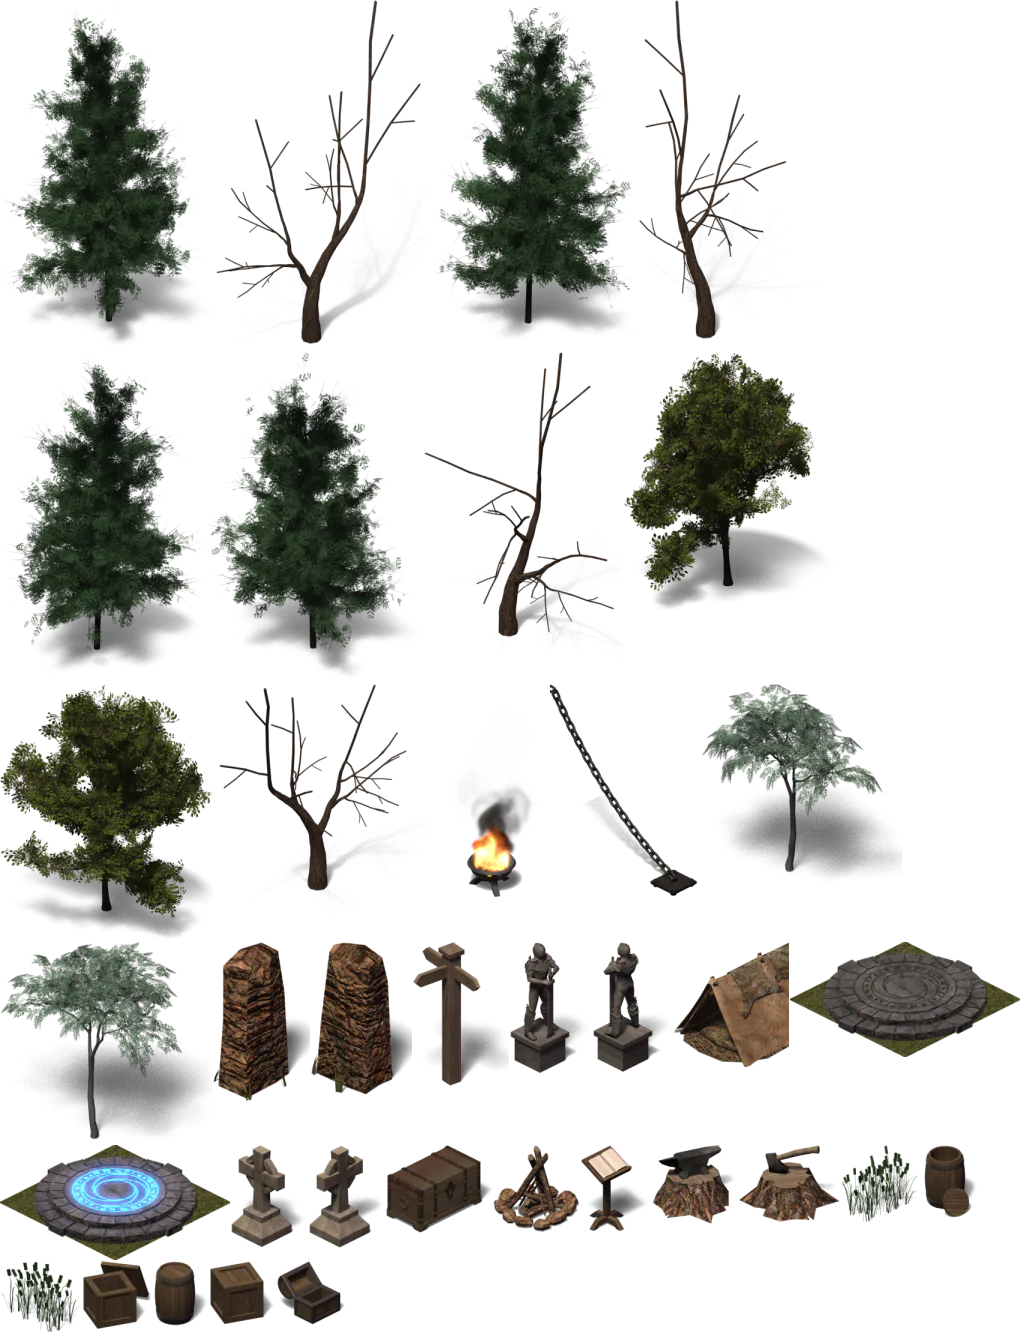
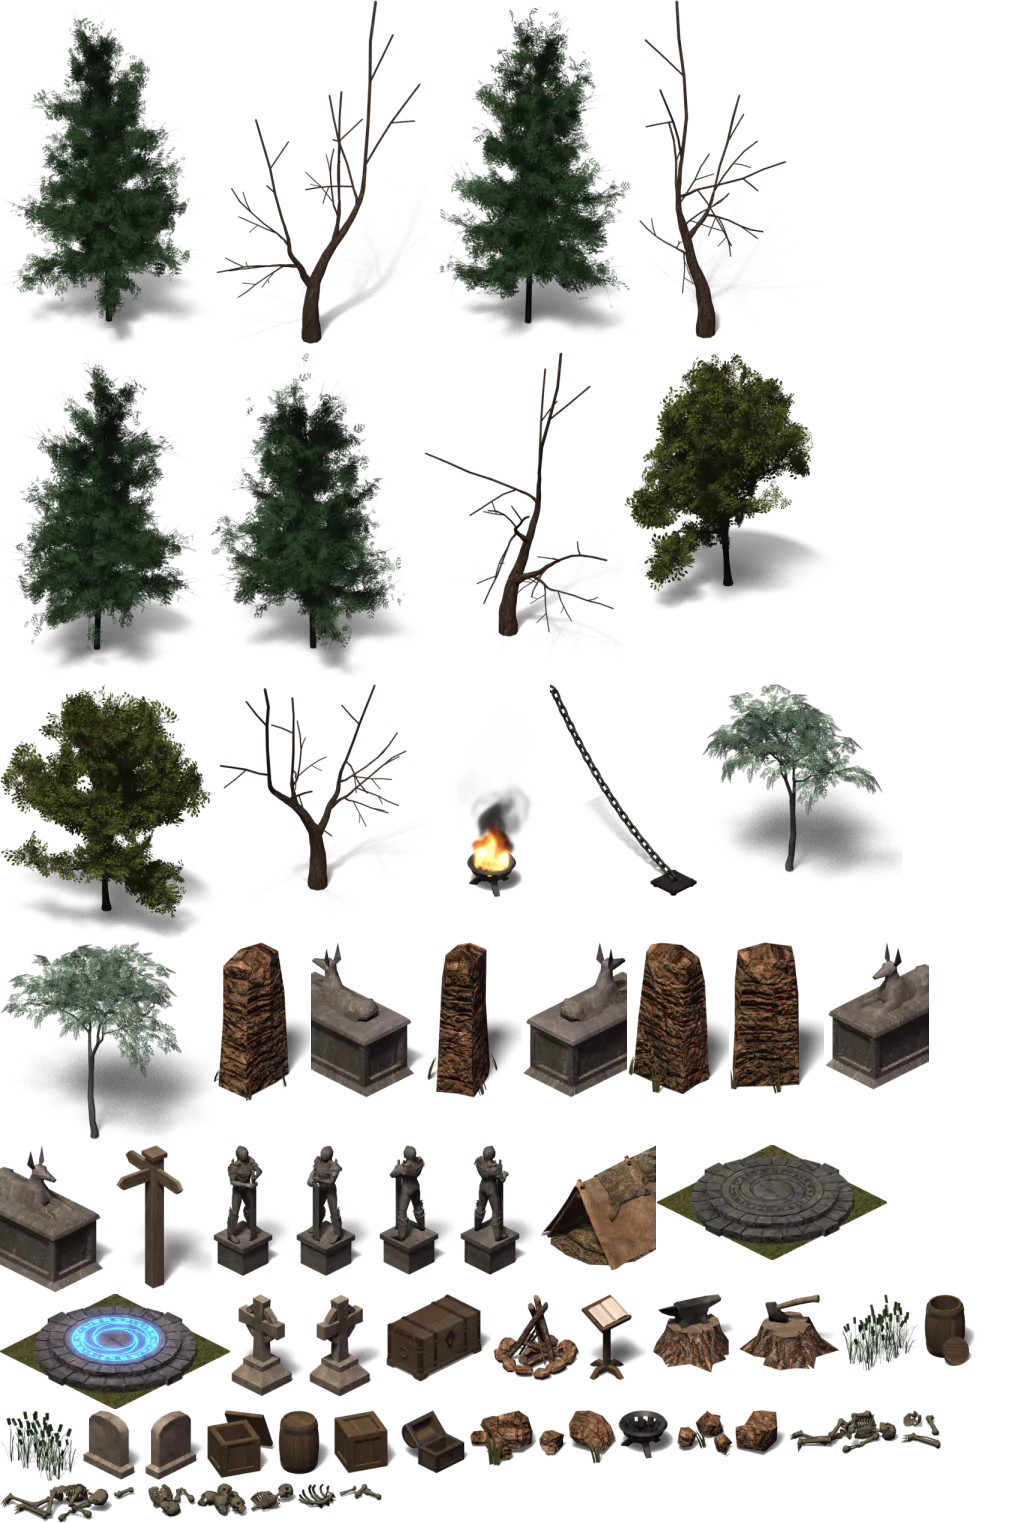
Emberdeep v1.0.156

diff --git a/js/maps.js b/js/maps.js
@@ -250,38 +250,41 @@ const THEMES={};
   // tall ones (graves, cages, dead trees, pillars) prefer floor right under a wall so they read as standing against it.
   const shade=(x,cx,cy,rx,ry,a)=>{x.fillStyle=`rgba(0,0,0,${a||0.4})`;x.beginPath();x.ellipse(cx,cy,rx,ry,0,0,TAU);x.fill();};
   const lin=(x,x0,y0,x1,y1,c0,c1)=>{const g=x.createLinearGradient(x0,y0,x1,y1);g.addColorStop(0,c0);g.addColorStop(1,c1);return g;};
+  // propart.js: the painted version of a prop when the props sheet is in (false: draw it as before)
+  const pick=a=>a[Math.random()*a.length|0];
+  const STONE_GEN={crypt:1,citadel:1,ember:1,a1ossuary:1};
   const PR={
     // a weathered headstone: rounded top, lit face, dark top edge, crack and grime at the foot
-    grave(x,cx,cy,c){shade(x,cx+3,cy+3,11,4);x.fillStyle='#14110e';x.beginPath();x.moveTo(cx-8,cy+2);x.lineTo(cx-8,cy-14);x.arc(cx,cy-14,8,Math.PI,0);x.lineTo(cx+8,cy+2);x.closePath();x.fill();
+    grave(x,cx,cy,c){if(propArt(x,pick(['grave1','grave2','grave3','grave4']),cx,cy+3,0.85,Math.random()<0.5))return;shade(x,cx+3,cy+3,11,4);x.fillStyle='#14110e';x.beginPath();x.moveTo(cx-8,cy+2);x.lineTo(cx-8,cy-14);x.arc(cx,cy-14,8,Math.PI,0);x.lineTo(cx+8,cy+2);x.closePath();x.fill();
       x.fillStyle=lin(x,cx-7,0,cx+7,0,c||'#5a5650','#34312c');x.beginPath();x.moveTo(cx-7,cy+2);x.lineTo(cx-7,cy-13);x.arc(cx,cy-13,7,Math.PI,0);x.lineTo(cx+7,cy+2);x.closePath();x.fill();
       x.strokeStyle='rgba(0,0,0,.5)';x.lineWidth=1;x.beginPath();x.moveTo(cx-3,cy-12);x.lineTo(cx+3,cy-12);x.moveTo(cx,cy-15);x.lineTo(cx,cy-6);x.stroke();
       if(Math.random()<0.5){x.beginPath();x.moveTo(cx+2,cy-19);x.lineTo(cx+4,cy-11);x.lineTo(cx+1,cy-6);x.stroke();}
       x.fillStyle='rgba(70,90,50,.35)';x.fillRect(cx-7,cy-2,14,4);dot(x,cx+rand(-9,9),cy+4,rand(1.5,3),'rgba(30,25,20,.6)');},
     // a broken column: lit drum, shaded flank, jagged broken top, fallen chunks around it
-    pillar(x,cx,cy,c){shade(x,cx+4,cy+4,15,6,0.45);const h=rand(14,26),R=11;x.fillStyle=lin(x,cx-R,0,cx+R,0,c||'#6a645a','#2a2622');x.fillRect(cx-R,cy-h,R*2,h);
+    pillar(x,cx,cy,c,gen){if(propArt(x,STONE_GEN[gen]?pick(['statue1','statue2','statue3','statue4']):pick(['menhir1','menhir2']),cx,cy+4,STONE_GEN[gen]?1:0.75,Math.random()<0.5))return;shade(x,cx+4,cy+4,15,6,0.45);const h=rand(14,26),R=11;x.fillStyle=lin(x,cx-R,0,cx+R,0,c||'#6a645a','#2a2622');x.fillRect(cx-R,cy-h,R*2,h);
       x.beginPath();x.ellipse(cx,cy,R,R*0.42,0,0,Math.PI);x.fill();x.strokeStyle='rgba(0,0,0,.3)';x.lineWidth=1;for(const k of [-5,0,5]){x.beginPath();x.moveTo(cx+k,cy-h+3);x.lineTo(cx+k,cy+R*0.3);x.stroke();}
       x.fillStyle=c?'#8a8478':'#7e776a';x.beginPath();for(let k=0;k<=10;k++){const a=Math.PI+k/10*Math.PI,j=k%2?rand(-4,0):rand(0,3);x.lineTo(cx+Math.cos(a)*R,cy-h+Math.sin(a)*R*0.42+j);}for(let k=0;k<=10;k++){const a=k/10*Math.PI;x.lineTo(cx+Math.cos(a)*R,cy-h+Math.sin(a)*R*0.42);}x.fill();
       for(let k=0;k<4;k++)PR.chunk(x,cx+rand(-20,20),cy+rand(2,10),rand(2.5,5),c);},
     chunk(x,cx,cy,r,c){shade(x,cx+1,cy+1,r*1.1,r*0.5,0.4);x.fillStyle=c||'#5e584e';x.beginPath();for(let k=0;k<6;k++){const a=k/6*TAU,rr=r*rand(0.7,1.1);x.lineTo(cx+Math.cos(a)*rr,cy+Math.sin(a)*rr*0.8);}x.fill();x.fillStyle='rgba(255,240,220,.12)';x.fillRect(cx-r*0.5,cy-r*0.6,r*0.8,1.2);},
     debris(x,cx,cy,c){for(let k=0;k<rand(4,8);k++)PR.chunk(x,cx+rand(-14,14),cy+rand(-9,9),rand(1.8,4.5),c);},
     // a low run of ruined wall: blocks of different heights with lit tops and dark faces
-    ruin(x,cx,cy,c){shade(x,cx,cy+6,30,6,0.4);let bx=cx-28;while(bx<cx+26){const w=rand(9,14),h=rand(4,16);x.fillStyle=lin(x,0,cy-h,0,cy+4,c||'#4e4840','#24201c');x.fillRect(bx,cy-h,w-1,h+4);x.fillStyle=c?'#7a7466':'#6a645a';x.fillRect(bx,cy-h-3,w-1,3);
+    ruin(x,cx,cy,c){if(propArt(x,pick(['stone1','stone2','stone3','stone4']),cx,cy+6,0.85,Math.random()<0.5))return;shade(x,cx,cy+6,30,6,0.4);let bx=cx-28;while(bx<cx+26){const w=rand(9,14),h=rand(4,16);x.fillStyle=lin(x,0,cy-h,0,cy+4,c||'#4e4840','#24201c');x.fillRect(bx,cy-h,w-1,h+4);x.fillStyle=c?'#7a7466':'#6a645a';x.fillRect(bx,cy-h-3,w-1,3);
       x.fillStyle='rgba(0,0,0,.4)';x.fillRect(bx+w-2,cy-h,1,h+4);bx+=w;}PR.debris(x,cx+rand(-10,10),cy+12,c);},
     // a skull and scattered long bones
-    bones(x,cx,cy){for(let k=0;k<3;k++){const a=rand(0,Math.PI),L=rand(7,12),bx=cx+rand(-10,10),by=cy+rand(-6,6);x.strokeStyle='#a69c84';x.lineWidth=2;x.beginPath();x.moveTo(bx-Math.cos(a)*L/2,by-Math.sin(a)*L/2);x.lineTo(bx+Math.cos(a)*L/2,by+Math.sin(a)*L/2);x.stroke();
+    bones(x,cx,cy,c,gen,drawn){if(!drawn&&propArt(x,pick(['skel1','skulls','bones1','bones2','skel2']),cx,cy+4,1,Math.random()<0.5))return;for(let k=0;k<3;k++){const a=rand(0,Math.PI),L=rand(7,12),bx=cx+rand(-10,10),by=cy+rand(-6,6);x.strokeStyle='#a69c84';x.lineWidth=2;x.beginPath();x.moveTo(bx-Math.cos(a)*L/2,by-Math.sin(a)*L/2);x.lineTo(bx+Math.cos(a)*L/2,by+Math.sin(a)*L/2);x.stroke();
         dot(x,bx-Math.cos(a)*L/2,by-Math.sin(a)*L/2,1.7,'#b8ae94');dot(x,bx+Math.cos(a)*L/2,by+Math.sin(a)*L/2,1.7,'#b8ae94');}
       if(Math.random()<0.7){shade(x,cx+1,cy+3,5,2);dot(x,cx,cy,4.5,'#c4b89c');x.fillStyle='#c4b89c';x.fillRect(cx-2.5,cy+2,5,3);dot(x,cx-1.6,cy-0.5,1.2,'#1a140e');dot(x,cx+1.6,cy-0.5,1.2,'#1a140e');}},
     // the ribcage of something large, half sunk in the sand
-    ribs(x,cx,cy){const a=rand(-0.5,0.5);x.save();x.translate(cx,cy);x.rotate(a);x.strokeStyle='#b0a688';x.lineWidth=2.5;x.beginPath();x.moveTo(-24,0);x.lineTo(22,0);x.stroke();x.lineWidth=1.8;
+    ribs(x,cx,cy){if(propArt(x,pick(['ribcage','skel3','skel4']),cx,cy+4,1,Math.random()<0.5))return;const a=rand(-0.5,0.5);x.save();x.translate(cx,cy);x.rotate(a);x.strokeStyle='#b0a688';x.lineWidth=2.5;x.beginPath();x.moveTo(-24,0);x.lineTo(22,0);x.stroke();x.lineWidth=1.8;
       for(let k=0;k<6;k++){const px=-18+k*7;for(const s of [-1,1]){x.beginPath();x.moveTo(px,0);x.quadraticCurveTo(px+5,s*9,px+2,s*15);x.stroke();}}x.fillStyle='#bfb496';x.beginPath();x.ellipse(26,0,6,4.5,0,0,TAU);x.fill();x.restore();},
     // a dead tree seen from above: dark twisted branches forking out from the trunk, their shadow cast to the side
-    tree(x,cx,cy,c){const br=(x0,y0,a,L,w,d)=>{if(d>3||L<4)return;const x1=x0+Math.cos(a)*L,y1=y0+Math.sin(a)*L;x.lineWidth=w;x.beginPath();x.moveTo(x0,y0);x.quadraticCurveTo((x0+x1)/2+rand(-4,4),(y0+y1)/2+rand(-4,4),x1,y1);x.stroke();
+    tree(x,cx,cy,c){if(propArt(x,pick(['deadtree1','deadtree2','deadtree3','deadtree4']),cx,cy+6,0.45,Math.random()<0.5))return;const br=(x0,y0,a,L,w,d)=>{if(d>3||L<4)return;const x1=x0+Math.cos(a)*L,y1=y0+Math.sin(a)*L;x.lineWidth=w;x.beginPath();x.moveTo(x0,y0);x.quadraticCurveTo((x0+x1)/2+rand(-4,4),(y0+y1)/2+rand(-4,4),x1,y1);x.stroke();
         for(let k=0;k<2;k++)br(x1,y1,a+rand(-0.7,0.7),L*rand(0.55,0.75),w*0.6,d+1);};
       x.strokeStyle='rgba(0,0,0,.35)';x.lineCap='round';const seed=Math.random();for(let k=0;k<5;k++)br(cx+8,cy+8,k/5*TAU+seed*6,rand(12,20),3.5,0);
       x.strokeStyle=c||'#2a1e14';for(let k=0;k<5;k++)br(cx,cy,k/5*TAU+seed*6,rand(12,20),3.5,0);dot(x,cx,cy,5,c||'#2a1e14');dot(x,cx-1,cy-1,2,'rgba(255,230,200,.1)');x.lineCap='butt';},
     // an iron gibbet cage on the floor: base ring, bars, a domed top; sometimes bones inside, sometimes coals glowing
     cage(x,cx,cy,hot){shade(x,cx+3,cy+4,14,5,0.45);if(hot){glow(x,cx,cy-4,18,'rgba(255,110,30,.5)');addLight(cx,cy-6,90,0.5,'255,110,30',0.3,1);}
-      x.strokeStyle='#1a1614';x.lineWidth=2;x.beginPath();x.ellipse(cx,cy,11,4.5,0,0,TAU);x.stroke();if(!hot&&Math.random()<0.6)PR.bones(x,cx,cy-3);if(hot)for(let k=0;k<5;k++)dot(x,cx+rand(-6,6),cy+rand(-2,2),rand(1.5,2.5),'#ff8a2a');
+      x.strokeStyle='#1a1614';x.lineWidth=2;x.beginPath();x.ellipse(cx,cy,11,4.5,0,0,TAU);x.stroke();if(!hot&&Math.random()<0.6)PR.bones(x,cx,cy-3,0,0,1);if(hot)for(let k=0;k<5;k++)dot(x,cx+rand(-6,6),cy+rand(-2,2),rand(1.5,2.5),'#ff8a2a');
       x.strokeStyle='#3a3430';x.lineWidth=1.6;for(let k=0;k<7;k++){const a=Math.PI*(0.05+k/6*0.9),bx=cx+Math.cos(a)*11;x.beginPath();x.moveTo(bx,cy+Math.sin(a)*4.5);x.lineTo(bx,cy-22+Math.sin(a)*4.5);x.stroke();}
       x.beginPath();x.ellipse(cx,cy-22,11,4.5,0,0,TAU);x.stroke();x.beginPath();x.moveTo(cx-11,cy-22);x.quadraticCurveTo(cx,cy-34,cx+11,cy-22);x.stroke();x.fillStyle='rgba(255,230,200,.2)';x.fillRect(cx-9,cy-23,3,1);
       x.strokeStyle='#2a2420';x.lineWidth=1.4;x.setLineDash([2,1.5]);x.beginPath();x.moveTo(cx,cy-30);x.lineTo(cx,cy-46);x.stroke();x.setLineDash([]);},
@@ -297,16 +300,23 @@ const THEMES={};
       x.strokeStyle='rgba(150,180,170,.18)';x.lineWidth=1;x.beginPath();x.ellipse(cx-rx*0.2,cy-ry*0.25,rx*0.55,ry*0.35,0,Math.PI*1.1,Math.PI*1.8);x.stroke();},
     // ice: a jagged crust of frost crystals
     ice(x,cx,cy){for(let k=0;k<rand(3,6);k++){const bx=cx+rand(-12,12),by=cy+rand(-6,6),h=rand(5,13);x.fillStyle='rgba(200,230,250,.75)';x.beginPath();x.moveTo(bx-3,by);x.lineTo(bx,by-h);x.lineTo(bx+3,by);x.fill();x.fillStyle='rgba(255,255,255,.6)';x.fillRect(bx-0.5,by-h+2,1,h-3);}},
-    chains(x,cx,cy){x.strokeStyle='#4a4440';x.lineWidth=1.6;let px=cx-18,py=cy;for(let k=0;k<9;k++){const nx=px+4.5,ny=py+rand(-2,2);x.beginPath();x.ellipse((px+nx)/2,(py+ny)/2,3,1.8,Math.atan2(ny-py,nx-px),0,TAU);x.stroke();px=nx;py=ny;}}};
+    chains(x,cx,cy){if(propArt(x,'chains',cx+18,cy+8,0.5,Math.random()<0.5))return;x.strokeStyle='#4a4440';x.lineWidth=1.6;let px=cx-18,py=cy;for(let k=0;k<9;k++){const nx=px+4.5,ny=py+rand(-2,2);x.beginPath();x.ellipse((px+nx)/2,(py+ny)/2,3,1.8,Math.atan2(ny-py,nx-px),0,TAU);x.stroke();px=nx;py=ny;}},
+    // v1.0.156: a stone tomb against the wall (painted: a jackal on the lid); drawn: a plain lidded stone box
+    tomb(x,cx,cy,c){if(propArt(x,pick(['tomb1','tomb2','tomb3','tomb4']),cx,cy+6,0.8,Math.random()<0.5))return;shade(x,cx+3,cy+6,22,6,0.45);
+      x.fillStyle=lin(x,0,cy-14,0,cy+6,c||'#5a5650','#24201c');x.fillRect(cx-20,cy-12,40,18);x.fillStyle=c?'#8a8478':'#6e685e';x.fillRect(cx-22,cy-17,44,6);x.fillStyle='rgba(0,0,0,.35)';x.fillRect(cx-14,cy-6,28,1.5);x.fillRect(cx-14,cy-1,28,1.5);},
+    // v1.0.156: old stores left behind: barrels and crates, some broken open
+    stores(x,cx,cy){const P=[['barrel',-12,2],['crate',10,-2],[pick(['barrel_broken','crate_open','barrel']),2,10]];let done=false;
+      for(const [n,ox,oy] of P)if(propArt(x,n,cx+ox,cy+oy,0.9,Math.random()<0.5))done=true;if(done)return;
+      for(const [ox,oy] of [[-10,0],[9,4]]){shade(x,cx+ox,cy+oy+10,11,4);x.fillStyle='#5a3a1e';x.beginPath();x.ellipse(cx+ox,cy+oy,10,12,0,0,TAU);x.fill();x.fillStyle='#3a3e44';x.fillRect(cx+ox-10,cy+oy-5,20,2);x.fillRect(cx+ox-10,cy+oy+4,20,2);}}};
   // Props per act: [kind, weight, against-a-wall]. Colours lean on each act's stone.
   const PROP_SET={
-    crypt:[['grave',3,1],['pillar',2,0],['candles',2,0],['bones',3,0],['ruin',1.5,0],['cage',1,1],['debris',2,0],['chains',1,0]],
-    desert:[['ribs',2,0],['bones',2,0],['pillar',2,0],['ruin',2,0],['tree',2,0],['debris',3,0]],
+    crypt:[['grave',3,1],['tomb',1,1],['stores',1,0],['pillar',2,0],['candles',2,0],['bones',3,0],['ruin',1.5,0],['cage',1,1],['debris',2,0],['chains',1,0]],
+    desert:[['ribs',2,0],['tomb',1,1],['bones',2,0],['pillar',2,0],['ruin',2,0],['tree',2,0],['debris',3,0]],
     marsh:[['tree',4,0],['log',3,0],['puddle',4,0],['bones',1.5,0],['grave',1,1],['debris',1,0]],
-    citadel:[['pillar',3,0],['ice',3,0],['cage',1.5,1],['ruin',2,0],['debris',2,0],['bones',1,0]],
+    citadel:[['pillar',3,0],['stores',1,0],['ice',3,0],['cage',1.5,1],['ruin',2,0],['debris',2,0],['bones',1,0]],
     ember:[['cage',2,1],['pillar',2,0],['debris',3,0],['bones',2,0],['chains',2,0],['ruin',1,0]],
-    a1fields:[['grave',5,0],['tree',3,0],['bones',2,0],['candles',1,0],['debris',1,0]],a1gully:[['tree',3,0],['bones',3,0],['cage',2,1],['debris',3,0],['log',1,0]],
-    a1ossuary:[['bones',6,0],['candles',2,0],['debris',2,0],['grave',1,1],['chains',1,0]],a1moor:[['tree',4,0],['log',3,0],['debris',2,0],['grave',1,0],['ruin',1,0]]};
+    a1fields:[['grave',5,0],['tree',3,0],['bones',2,0],['candles',1,0],['debris',1,0]],a1gully:[['tree',3,0],['stores',1,0],['bones',3,0],['cage',2,1],['debris',3,0],['log',1,0]],
+    a1ossuary:[['bones',6,0],['tomb',1,1],['candles',2,0],['debris',2,0],['grave',1,1],['chains',1,0]],a1moor:[['tree',4,0],['log',3,0],['debris',2,0],['grave',1,0],['ruin',1,0]]};
   const PROP_COL={a1fields:'#5a5650',a1gully:'#6a5e50',a1ossuary:'#4a4440',a1moor:'#5a5448',crypt:'#5a5650',desert:'#8a7656',marsh:'#4a4a3a',citadel:'#7a8a9a',ember:'#3a2c28'};
   // ---- Act 1 zone themes (zones.js) ----
   const treeWall=(x,px,py,adj,h)=>{x.fillStyle=`hsl(${h},18%,4%)`;x.fillRect(px,py,TILE,TILE);if(!adj)return;
@@ -338,7 +348,7 @@ const THEMES={};
       for(let k=0;k<n;k++){let w=Math.random()*tot,P=S[0];for(const s of S){w-=s[1];if(w<0){P=s;break;}}
         let i,j,ok=false;for(let t=0;t<8&&!ok;t++){i=r.x+randi(0,r.w-1);j=r.y+randi(0,r.h-1);if(P[2]){for(let jj=j;jj>=r.y-1;jj--)if(at(i,jj-1)===1){j=jj;break;}}ok=at(i,j)===0&&!taken.has(j*MW+i)&&(!P[2]||at(i,j-1)===1);}
         if(!ok)continue;taken.add(j*MW+i);const cx=i*TILE+20+rand(-5,5),cy=j*TILE+(P[2]?26:20)+rand(-5,5);
-        standProp(x,cx,cy+2,[cx-60,cy-110,cx+60,cy+34],x=>{if(P[0]==='cage')PR.cage(x,cx,cy,gen==='ember');else if(P[0]==='tree')PR.tree(x,cx,cy,gen==='desert'?'#3a2a1a':'#20180e');else PR[P[0]](x,cx,cy,c);});}}};
+        standProp(x,cx,cy+2,[cx-60,cy-110,cx+60,cy+34],x=>{if(P[0]==='cage')PR.cage(x,cx,cy,gen==='ember');else if(P[0]==='tree')PR.tree(x,cx,cy,gen==='desert'?'#3a2a1a':'#20180e');else PR[P[0]](x,cx,cy,c,gen);});}}};
   // Floor detail across many tiles: roots in the marsh, wind ripples in the sand, long cracks in stone.
   THEMES._floorDetail=(x,gen,at)=>{gen=THEMES[gen]&&THEMES[gen].detail||gen;const N=gen==='marsh'?60:gen==='desert'?50:35;
     for(let k=0;k<N;k++){const i=randi(1,MW-2),j=randi(1,MH-2);if(at(i,j)!==0)continue;let px=i*TILE+rand(0,TILE),py=j*TILE+rand(0,TILE),a=rand(0,TAU);
@@ -373,7 +383,8 @@ function placeTorches(x,gen,at,adjFloor){const TH=THEMES[gen]||{},rgb=TH.torch||
   for(const r of G.rooms||[]){if(r.w<8||r.h<7||Math.random()<0.45)continue;
     for(const [ci,cj] of [[r.x+1,r.y+1],[r.x+r.w-2,r.y+r.h-2],[r.x+r.w-2,r.y+1],[r.x+1,r.y+r.h-2]].sort(()=>Math.random()-0.5).slice(0,Math.random()<0.5?1:2)){
       if(at(ci,cj)!==0)continue;const bx=ci*TILE+20,by=cj*TILE+24;
-      standProp(x,bx,by+10-0.1,[bx-20,by-20,bx+20,by+20],x=>{ // its flame (light.js drawTorch) comes right after it
+      standProp(x,bx,by+10-0.1,[bx-30,by-30,bx+30,by+24],x=>{ // its flame (light.js drawTorch) comes right after it
+      if(propArt(x,'firebowl',bx,by+11,0.8))return; /* propart.js: an iron fire bowl */
       x.fillStyle='rgba(0,0,0,.45)';x.beginPath();x.ellipse(bx,by+10,14,5,0,0,TAU);x.fill();
       x.strokeStyle='#17120e';x.lineWidth=2.2;x.beginPath();for(const a of [-0.9,0,0.9]){x.moveTo(bx+Math.sin(a)*5,by-2);x.lineTo(bx+Math.sin(a)*12,by+10);}x.stroke();
       x.fillStyle='#231c16';x.beginPath();x.ellipse(bx,by-3,11,5,0,0,TAU);x.fill();x.fillStyle='#3a2e24';x.beginPath();x.ellipse(bx,by-5,11,4,0,0,TAU);x.fill();

diff --git a/sw.js b/sw.js
@@ -10,7 +10,7 @@
 // server again and goes back online if it answers.
 // Saves live in localStorage, which a service worker never reads, writes or clears.
 // FILES must list every file the page loads; VERSION must equal GAME_VERSION in js/core.js (tests/game-check.js checks both).
-const VERSION='1.0.155',CACHE='emberdeep-'+VERSION,TIMEOUT=2000,INSTALL_TIMEOUT=10000;
+const VERSION='1.0.156',CACHE='emberdeep-'+VERSION,TIMEOUT=2000,INSTALL_TIMEOUT=10000;
 // The painted hero's pictures (art/, js/heroart.js) are big and rarely change, so they live in their own cache that
 // survives game updates: each one is downloaded the first time it is needed and then always served from the cache.
 // Rebuilt art (tools/hero-art/build.js) needs a new ART name, which drops the old pictures.

diff --git a/js/core.js b/js/core.js
@@ -14,7 +14,7 @@ const angDiff=(a,b)=>{let d=(a-b)%TAU;if(d>Math.PI)d-=TAU;if(d<-Math.PI)d+=TAU;r
 
 // ---------- saves ----------
 // Game version: shown in the pause menu; bump it (and VERSION in sw.js) after every change.
-const GAME_VERSION='1.0.155';
+const GAME_VERSION='1.0.156';
 const SAVE_KEY='emberdeep_v1';
 let SAVES=[];
 try{SAVES=JSON.parse(localStorage.getItem(SAVE_KEY))||[];}catch(e){SAVES=[];}
